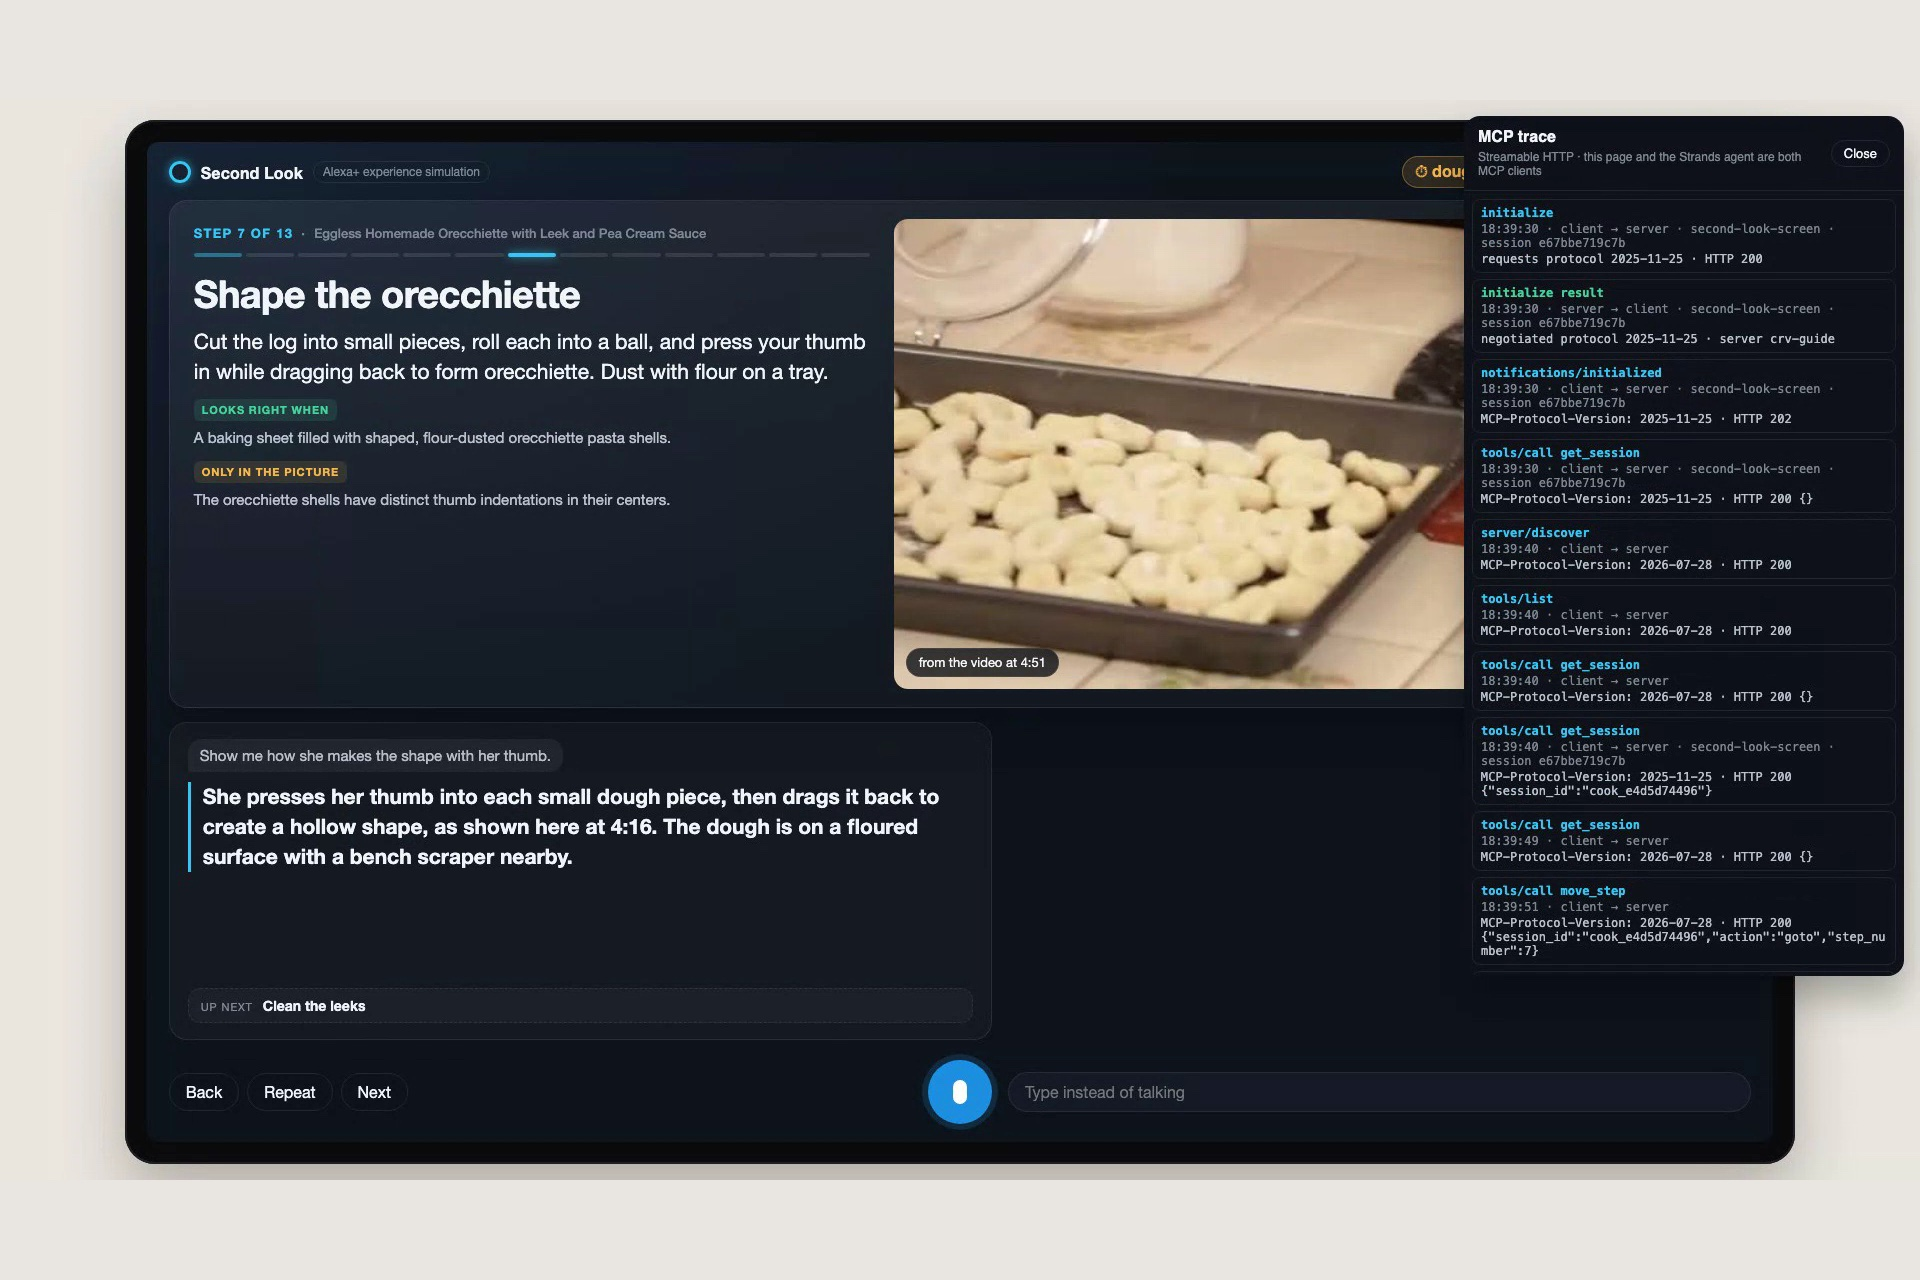
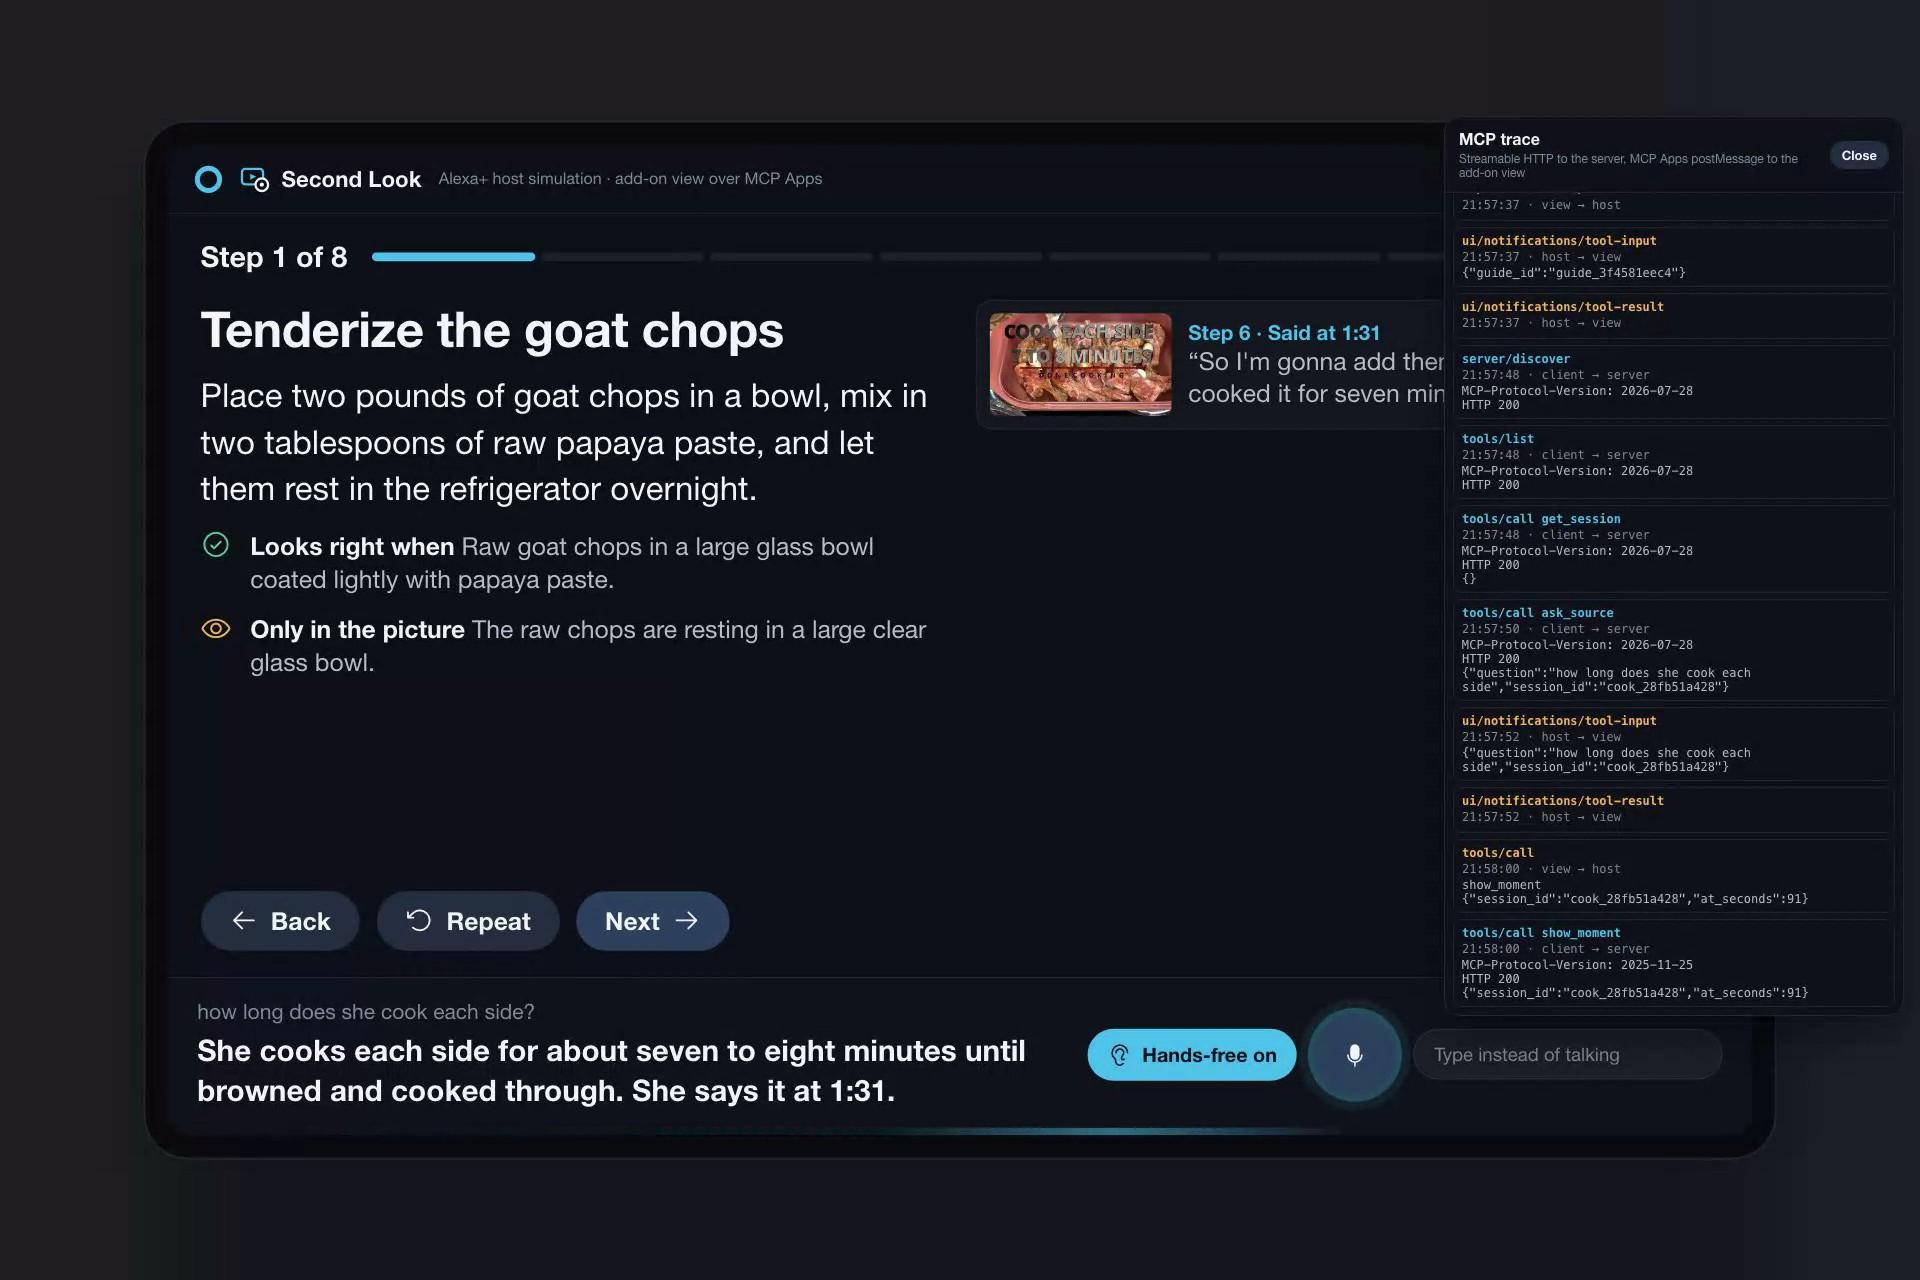
New-UI screenshots for the README and the gallery; the how-it-works card mentions the MCP Apps view

diff --git a/demo/cards/crv.html b/demo/cards/crv.html
@@ -13,4 +13,4 @@ p{font-size:34px;line-height:1.45;color:#b9c3cf;margin:0;max-width:1560px}
 .lines{font-family:ui-monospace,Menlo,monospace;font-size:22px;color:#b9c3cf;line-height:1.6}
 .lines b{color:#37c6f4;font-weight:600}
 .small{font-size:24px;color:#7d8896}
-</style></head><body><div class="wrap"><h2>1 · It watches the video first <span class="accent">(crv, open source)</span></h2><div class="cols"><div><div class="grid"><img src="../../server/fixtures/pasta/frames/frame_005.jpg"><img src="../../server/fixtures/pasta/frames/frame_016.jpg"><img src="../../server/fixtures/pasta/frames/frame_027.jpg"><img src="../../server/fixtures/pasta/frames/frame_038.jpg"><img src="../../server/fixtures/pasta/frames/frame_049.jpg"><img src="../../server/fixtures/pasta/frames/frame_060.jpg"><img src="../../server/fixtures/pasta/frames/frame_071.jpg"><img src="../../server/fixtures/pasta/frames/frame_082.jpg"></div><p class="small" style="margin-top:14px">92 keyframes at every scene change · 204 timestamped transcript lines · 11-minute video</p></div><div class="lines"><div><b>1:18</b> Kind of make a little hole in the middle there.</div><div><b>1:22</b> And we're going to add some cold water.</div><div><b>1:24</b> So you're going to start with about three quarters of a cup right into the middle and then use a fork</div><div><b>1:30</b> and just mix together as you go around, it's kind of going little circles and slowly incorporate the flowers into the water.</div><div><b>1:39</b> You don't want to overwork it but you're just going to mix it together and you'll see a dough is going to start to form.</div><div><b>1:44</b> So I can see a little, I need a little bit more water here and it's going to keep on mixing it until it becomes a dough.</div><div><b>1:54</b> And then you can just kind of get in there with your hands.</div></div></div><p><b style="color:#f2f5f8">2 · A multimodal model writes the steps from frames AND words</b>: 13 steps, each pinned to a real frame, a time range and the exact lines it came from.</p><p><b style="color:#f2f5f8">3 · Served as an MCP server</b> any assistant can call: Alexa+, or the simulated Echo Show you see next.</p></div></body></html>
+</style></head><body><div class="wrap"><h2>1 · It watches the video first <span class="accent">(crv, open source)</span></h2><div class="cols"><div><div class="grid"><img src="../../server/fixtures/pasta/frames/frame_005.jpg"><img src="../../server/fixtures/pasta/frames/frame_016.jpg"><img src="../../server/fixtures/pasta/frames/frame_027.jpg"><img src="../../server/fixtures/pasta/frames/frame_038.jpg"><img src="../../server/fixtures/pasta/frames/frame_049.jpg"><img src="../../server/fixtures/pasta/frames/frame_060.jpg"><img src="../../server/fixtures/pasta/frames/frame_071.jpg"><img src="../../server/fixtures/pasta/frames/frame_082.jpg"></div><p class="small" style="margin-top:14px">92 keyframes at every scene change · 204 timestamped transcript lines · 11-minute video</p></div><div class="lines"><div><b>1:18</b> Kind of make a little hole in the middle there.</div><div><b>1:22</b> And we're going to add some cold water.</div><div><b>1:24</b> So you're going to start with about three quarters of a cup right into the middle and then use a fork</div><div><b>1:30</b> and just mix together as you go around, it's kind of going little circles and slowly incorporate the flowers into the water.</div><div><b>1:39</b> You don't want to overwork it but you're just going to mix it together and you'll see a dough is going to start to form.</div><div><b>1:44</b> So I can see a little, I need a little bit more water here and it's going to keep on mixing it until it becomes a dough.</div><div><b>1:54</b> And then you can just kind of get in there with your hands.</div></div></div><p><b style="color:#f2f5f8">2 · A multimodal model writes the steps from frames AND words</b>: 13 steps, each pinned to a real frame, a time range and the exact lines it came from.</p><p><b style="color:#f2f5f8">3 · Served as an MCP server, screen included</b>: any MCP client can call the tools, and an MCP Apps host (Alexa+, or the simulated Echo Show in these screenshots) shows the add-on view the server ships as a ui:// resource.</p></div></body></html>

diff --git a/README.md b/README.md
@@ -16,7 +16,7 @@ Track: **Alexa+** (self-hosted MCP server, spec 2025-11-25, Streamable HTTP) · 
 
 > Demo video: https://youtu.be/tgE5cRr50LM
 
-![Second Look screen](docs/screen.png)
+![Second Look on a simulated Echo Show: "How much water did she use?" answered from the line she says at 1:24, with evidence cards to replay](docs/screen.png)
 
 ---
 
